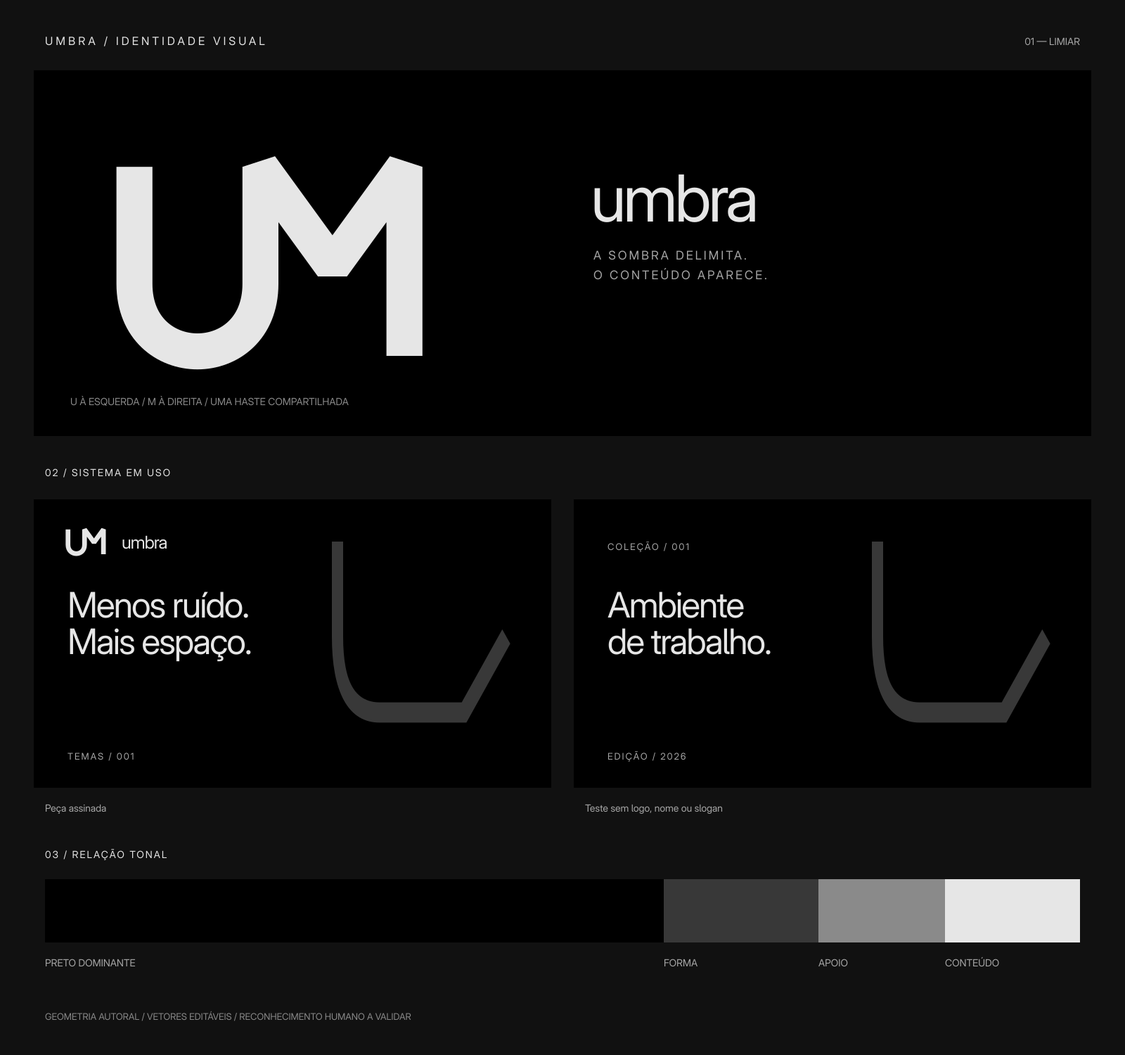
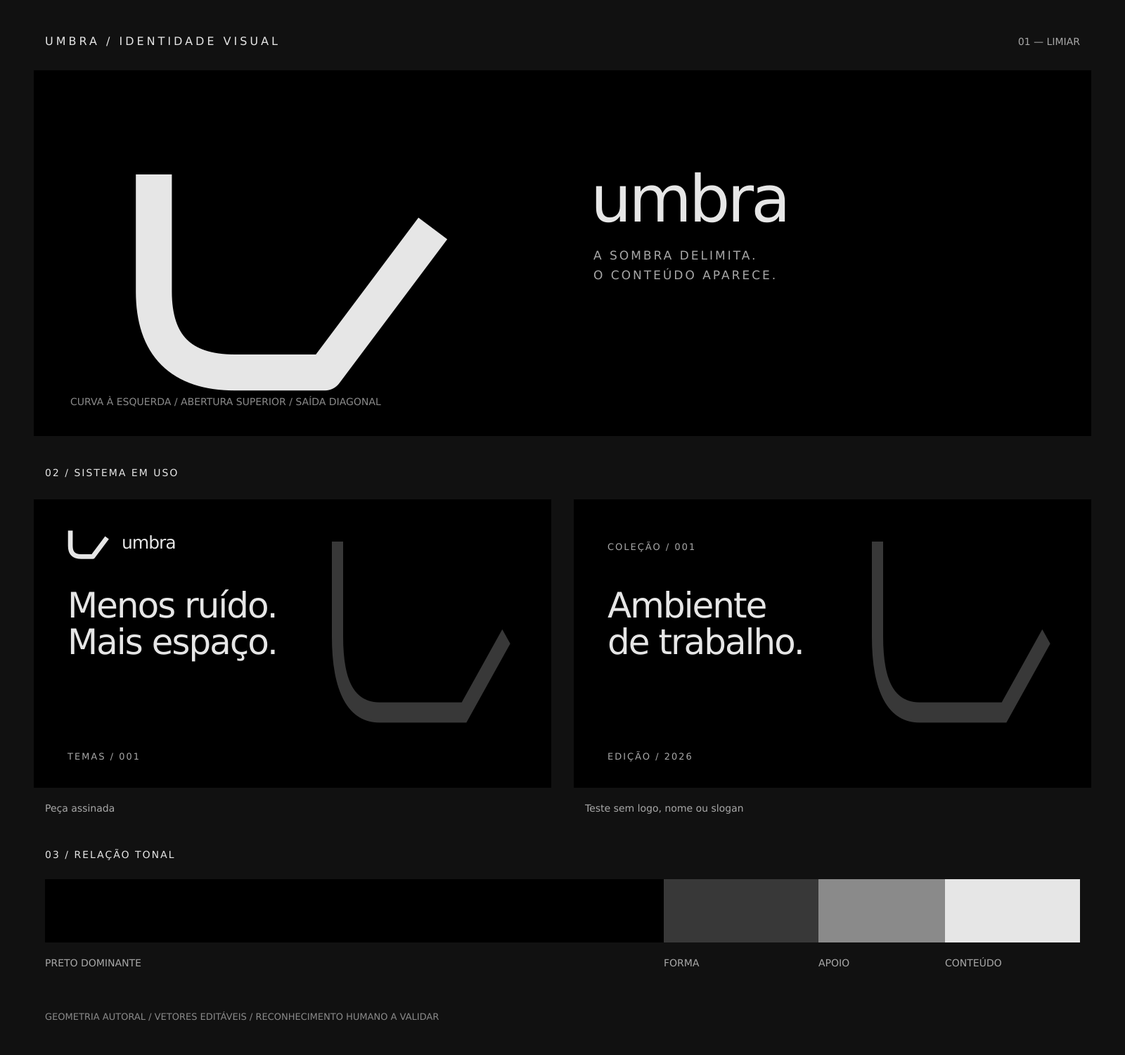
Adopt threshold symbol across Umbra identity

diff --git a/branding/umbra/explorations/limiar/build.ts b/branding/umbra/explorations/limiar/build.ts
@@ -1,0 +1,45 @@
+// Run with bun branding/umbra/explorations/limiar/build.ts
+const dir = import.meta.dir;
+const old = 'M16 16V68C16 108 72 108 72 68V16L104 60L136 16V100';
+const proposed = 'M24 20V72Q24 108 60 108H100L148 44';
+const connected = 'M24 20V72Q24 108 60 108H100L148 44L176 72L204 44';
+const head = (w:number,h:number,title:string) => `<svg xmlns="http://www.w3.org/2000/svg" width="${w}" height="${h}" viewBox="0 0 ${w} ${h}" role="img"><title>${title}</title>`;
+const shape = (variant:number|boolean,color='#C5C7C5') => `<path d="${variant===2?connected:variant?proposed:old}" fill="none" stroke="${color}" stroke-width="16" stroke-linejoin="${variant===2?'bevel':variant?'round':'bevel'}"/>`;
+await Bun.write(`${dir}/limiar-symbol.svg`,head(172,132,'Umbra — proposta U limiar')+shape(true)+'</svg>');
+await Bun.write(`${dir}/limiar-m-symbol.svg`,head(228,132,'Umbra — limiar com M abstrato conectado')+shape(2)+'</svg>');
+const mark=(n:number|boolean,x:number,y:number,w:number,color='#C5C7C5')=>`<g transform="translate(${x} ${y}) scale(${w/(n===2?228:n?172:152)})">${shape(n,color)}</g>`;
+const text=(x:number,y:number,s:string,size=18,color='#858A89')=>`<text x="${x}" y="${y}" fill="${color}" font-family="DejaVu Sans,sans-serif" font-size="${size}">${s}</text>`;
+let s=head(2144,1520,'Umbra — comparação UM atual, U limiar e limiar com M');
+s+='<defs><filter id="blur"><feGaussianBlur stdDeviation="3"/></filter></defs><rect width="2144" height="1520" fill="#050505"/>';
+s+=text(64,62,'umbra / estudo de símbolo',28,'#C5C7C5')+text(64,96,'01 — Comparação para avaliação · formas planas, sem luz ou textura',16);
+s+='<path d="M720 140V1430M1424 140V1430" stroke="#252727"/>';
+for(const n of [0,1,2]){
+ const x=64+n*704;
+ s+=text(x,164,['A / UM ATUAL','B / U LIMIAR','C / LIMIAR + M ABSTRATO'][n],18,'#C5C7C5');
+ s+=text(x,194,['Duas letras em um percurso contínuo.','Curva à esquerda. Abertura. Saída diagonal.','A diagonal continua em um M de vale raso.'][n],16);
+ s+=mark(n,x+132,242,290);
+ s+=text(x,516,'SÍMBOLO / mesma largura óptica aproximada',13);
+ s+=text(x,564,'FAVICON / 16, 24, 32 e 48 px',13);
+ let dx=x; for(const z of [16,24,32,48]){s+=mark(n,dx,590,z)+text(dx,656,String(z),12);dx+=90;}
+ s+=text(x,710,'AVATAR / quadrado e recorte circular',13);
+ s+=`<rect x="${x}" y="734" width="128" height="128" rx="24" fill="#161919"/><circle cx="${x+248}" cy="798" r="64" fill="#161919"/>`;
+ s+=mark(n,x+24,766,80)+mark(n,x+208,766,80);
+ s+=text(x,918,'ASSINATURA / símbolo + nome',13)+mark(n,x,948,68)+text(x+92,994,'umbra',48,'#C5C7C5');
+ s+=text(x,1064,'INVERSÃO / preto sobre Bone',13)+`<rect x="${x}" y="1084" width="560" height="126" rx="4" fill="#C5C7C5"/>`+mark(n,x+228,1103,100,'#050505');
+ s+=text(x,1258,'DESFOQUE / estrutura geral',13)+`<g filter="url(#blur)">${mark(n,x,1284,130)}</g>`;
+ s+=text(x,1436,['Mais literal; a junção concentra detalhes.','Mais aberto; pode parecer um recipiente ou uma rampa.','Mais horizontal; o M também pode parecer um zigue-zague.'][n],15);
+}
+s+=text(64,1490,'Proposta exploratória · identidade vigente preservada · reconhecimento por pessoas ainda não medido',14);
+await Bun.write(`${dir}/comparison.svg`,s+'</svg>');
+let test=head(1440,580,'Umbra — testes de linguagem sem assinatura e troca de nome');
+test+='<rect width="1440" height="580" fill="#050505"/>';
+test+=text(64,64,'02 — A linguagem além do símbolo',28,'#C5C7C5');
+test+=text(64,108,'Sem logo, nome ou slogan',18)+text(768,108,'Troca de nome / controle de distinção',18);
+for(const x of [64,768]){
+ test+=`<rect x="${x}" y="140" width="600" height="320" fill="#101111"/>`;
+ test+=`<path d="M${x+300} 170V300Q${x+300} 386 ${x+370} 386H${x+480}L${x+564} 268" fill="none" stroke="#292D2D" stroke-width="22"/>`;
+}
+test+=text(796,230,'nord',44,'#C5C7C5');
+test+=text(64,506,'O contorno mantém parentesco com o wallpaper.',16)+text(768,506,'A troca ainda é plausível: exclusividade não comprovada.',16);
+test+=text(64,544,'O limiar pode organizar recortes e composições; associação à Umbra exige uso consistente.',16);
+await Bun.write(`${dir}/language-tests.svg`,test+'</svg>');

diff --git a/branding/umbra/REVIEW.md b/branding/umbra/REVIEW.md
@@ -14,13 +14,13 @@ Consulta textual às páginas oficiais em 2026-09-05:
 | [Catppuccin](https://catppuccin.com/) | Posicionamento pastel, esquema comunitário e catálogo de ports | Evitar organizar a identidade em sabores cromáticos |
 | [Dracula](https://draculatheme.com/) | Catálogo de temas, metáforas de castelo e caixão | Tema noturno sozinho não distingue Umbra |
 
-Limite: a consulta confirma posicionamento e conteúdo; não permite atribuir com segurança fontes, animações ou uma auditoria visual completa dessas marcas. Monoespaçadas, preto e metáforas noturnas são convenções apontadas pela skill, não uma descoberta quantitativa desta consulta. A oportunidade autoral é a combinação UM horizontal + limiar curvo/angular + composição de campo escuro. Exclusividade não foi comprovada.
+Limite: a consulta confirma posicionamento e conteúdo; não permite atribuir com segurança fontes, animações ou uma auditoria visual completa dessas marcas. Monoespaçadas, preto e metáforas noturnas são convenções apontadas pela skill, não uma descoberta quantitativa desta consulta. A oportunidade autoral é a combinação do limiar curvo/angular e composição de campo escuro. Exclusividade não foi comprovada.
 
 ## Decisão e refinamento
 
-Na revisão 0.4.1, o feedback do usuário identificou um nó na ligação: o ramal `M72 68V100` prolongava a haste a partir do ponto onde a curva terminava. Esse ramal foi removido de todos os símbolos e aplicações. A curva cúbica chega a (72,68) com tangente vertical e continua pela subida até (72,16), formando um único percurso sem ramificação. Foram mantidos o peso 16 e os encontros chanfrados; a correção está na continuidade da construção. As exportações foram regeneradas e a junção foi reinspecionada em escala ampliada e na prancha de reduções. As notas de potencial abaixo não foram aumentadas por essa correção.
+Na revisão 0.5.0, o feedback do usuário escolheu o limiar aberto como símbolo principal após comparar o UM, o limiar e uma tentativa de M abstrato conectado. A opção conectada foi descartada: em tamanhos pequenos, sua leitura se aproximava de um zigue-zague. O percurso final `M24 20V72Q24 108 60 108H100L148 44` preserva a curva à esquerda, uma base curta e a saída diagonal. O traço é 16, a curva é a única transição arredondada e não há ramificações.
 
-O M acima do U permitia uma ordem vertical MU. A reconstrução coloca o U antes do M no eixo habitual de leitura, com uma única haste compartilhada. O U tem curva aberta em cima; o M mantém duas diagonais e duas hastes. Não há olhos ou cabeça de animal a decifrar. O limiar das aplicações deriva da passagem curva/ângulo, sem reproduzir o monograma inteiro.
+O símbolo não busca representar letras. Ele traduz a passagem curva/ângulo do limiar entre sombra e conteúdo. A coruja, os monogramas e o V sobre U deixaram de orientar o sistema.
 
 ## Matriz de assets
 
@@ -28,8 +28,7 @@ As colunas de reconhecimento e exclusividade são hipóteses internas. Fame e un
 
 | Asset | Potencial de reconhecimento | Potencial de exclusividade | Coerência | Repetibilidade |
 | --- | --- | --- | --- | --- |
-| UM horizontal com haste comum | Médio/alto | Médio: monogramas são frequentes | Alta | Alta |
-| Limiar com curva esquerda e saída diagonal direita | Médio | Médio | Alta | Alta |
+| Limiar aberto com curva esquerda e saída diagonal direita | Médio/alto | Médio: formas abertas são frequentes | Alta | Alta |
 | Título curto / campo vazio / forma à direita | Médio | Baixo isoladamente | Alta | Alta |
 | Caixa baixa na assinatura e metadados espaçados | Baixo isoladamente | Baixo | Média | Alta |
 | Preto e cinzas | Baixo isoladamente | Baixo | Alta | Alta |
@@ -40,11 +39,11 @@ As colunas de reconhecimento e exclusividade são hipóteses internas. Fame e un
 
 | Teste | Resultado da inspeção interna |
 | --- | --- |
-| Ordem das letras | U à esquerda e M à direita visíveis; a haste comum preserva ligação. Leitura humana espontânea ainda pendente |
-| Monocromia / inversão / silhueta | Curva e diagonais preservadas sem dependência de cor |
-| Redução em 16, 24, 32, 64 e 128 px | Em 16 px, curva e junção ficam pouco definidas. Recomendar 32 px ou mais |
-| Desfoque | A oposição entre curva esquerda e ângulos à direita sobrevive; detalhes dos terminais se perdem |
-| Oclusão | O M incompleto deixa de ser legível. Proibir recorte do símbolo |
+| Silhueta | Curva à esquerda, abertura superior e diagonal direita preservadas sem dependência de cor |
+| Monocromia / inversão | Forma legível em Bone sobre Ink e Ink sobre Bone |
+| Redução em 16, 24, 32, 64 e 128 px | Em 16 px, curva e diagonal ficam pouco definidas. Recomendar 32 px ou mais |
+| Desfoque | A oposição entre curva esquerda e diagonal direita sobrevive; detalhes dos terminais se perdem |
+| Oclusão | A abertura e a diagonal deixam de comunicar a silhueta. Proibir recorte do símbolo |
 | Retirada de logo, nome e slogan | Peça direita da prancha mantém limiar, hierarquia e distribuição. Há parentesco visual; isso não comprova identificação de Umbra |
 | Troca por concorrente | `applications/competitor-swap.svg`: a composição continua plausível com Nord. O layout isolado tem exclusividade baixa; manter o limiar e construir associação por repetição |
 | Entre suportes | Prancha editorial, avatar quadrado e wallpaper panorâmico materializados; aplicação real em interface não avaliada nesta entrega |
@@ -56,8 +55,8 @@ Não declarar reconhecimento comprovado nem atribuir respostas a participantes i
 
 | Critério | Nota | Motivo |
 | --- | --- | --- |
-| Distintividade | 6 | Ligação específica entre letras, mas território de monogramas concorrido |
-| Potencial de reconhecimento | 7 | Ordem horizontal e duas anatomias legíveis |
+| Distintividade | 6 | Silhueta específica, mas território de formas abertas concorrido |
+| Potencial de reconhecimento | 7 | Curva e diagonal contrastantes, repetíveis entre suportes |
 | Coerência semântica | 8 | Sombra, limite e revelação conectam forma e aplicação |
 | Força da forma | 7 | Funciona em monocromia e desfoque; frágil sob recorte |
 | Identidade tipográfica | 4 | Comportamento consistente, fonte não exclusiva |
@@ -70,6 +69,6 @@ Não declarar reconhecimento comprovado nem atribuir respostas a participantes i
 
 ## Teste humano a executar
 
-Apresentar o símbolo isolado durante cinco segundos, ocultar e perguntar “Quais letras você viu, em qual ordem?”. Não revelar UM antes. Repetir em 32 px, perguntar sobre dificuldade e registrar literalmente a resposta. Com 5–8 pessoas é possível detectar ambiguidades, não estimar reconhecimento populacional.
+Apresentar o símbolo isolado durante cinco segundos, ocultar e pedir que a pessoa desenhe ou descreva a forma. Não explicar o conceito antes. Repetir em 32 px, perguntar sobre dificuldade e registrar literalmente a resposta. Com 5–8 pessoas é possível detectar ambiguidades, não estimar reconhecimento populacional.
 
-Mostrar uma peça assinada e, após outra tarefa, uma peça sem nome, logo e slogan, isolada do cabeçalho da prancha e misturada a referências. Perguntar o que recorda e a qual marca associa, aceitando “não sei”. Registrar participante anônimo, tamanho, tempo, resposta espontânea e familiaridade prévia. Se MU aparecer repetidamente, separar as hastes antes de insistir na fusão.
+Mostrar uma peça assinada e, após outra tarefa, uma peça sem nome, logo e slogan, isolada do cabeçalho da prancha e misturada a referências. Perguntar o que recorda e a qual marca associa, aceitando “não sei”. Registrar participante anônimo, tamanho, tempo, resposta espontânea e familiaridade prévia. Se “recipiente”, “rampa” ou “marca de verificação” aparecerem repetidamente, refinar proporções antes de aumentar a exposição.

diff --git a/DESIGN.md b/DESIGN.md
@@ -14,8 +14,7 @@ A preferência por preto OLED e neutros permanece. A identidade deve comunicar a
 
 | Hierarquia | Asset | Regra e motivo |
 | --- | --- | --- |
-| Primário | Monograma UM horizontal | U primeiro, M depois, uma haste comum. A sequência permite leitura direta e a conexão dá unidade |
-| Primário | Limiar | Contorno aberto: descida vertical, curva inferior à esquerda, base horizontal, saída diagonal à direita. Reproduz a passagem curva/ângulo das letras |
+| Primário | Limiar aberto | Descida vertical, curva inferior à esquerda, base curta e saída diagonal à direita. A silhueta representa uma passagem, não letras |
 | Secundário | Composição | Título curto à esquerda, limiar à direita e metadados no rodapé. Repetir a distribuição ajuda a criar parentesco |
 | Secundário | Tipografia | Nome em caixa baixa; títulos próximos, rótulos pequenos espaçados |
 | Secundário | Relação tonal | Campo preto dominante, forma em cinza e conteúdo localizado em Bone |
@@ -23,15 +22,15 @@ A preferência por preto OLED e neutros permanece. A identidade deve comunicar a
 
 Sem logo, nome e slogan, devem restar o limiar assimétrico, o ritmo de títulos e a distribuição tonal. A prancha contém essa aplicação. São candidatos a associação pela repetição, não assets de exclusividade comprovada.
 
-## 3. Logo e nome
+## 3. Símbolo e nome
 
 Nome público: **Umbra**; identificadores: `umbra`; assinatura editorial em caixa baixa. Destinos usam “Umbra para Zed” e descritores equivalentes, sem criar submarcas por aplicativo.
 
-O [original](branding/umbra/logo/umbra-symbol.svg) tem viewBox 152 × 116 e traço 16. Um único percurso parte de (16,16), desce até (16,68), percorre a curva do U e chega a (72,68) com tangente vertical. Dali sobe diretamente a (72,16), entra nas diagonais do M por (104,60) e (136,16), e termina em (136,100). A subida em x=72 é simultaneamente a haste direita do U e a entrada do M; não existe prolongamento independente abaixo da junção. A curva tem pequena compensação abaixo da base reta. Terminais retos e encontros chanfrados.
+O [original](branding/umbra/logo/umbra-symbol.svg) tem viewBox 172 × 132 e traço 16. Um único percurso parte de (24,20), desce até (24,72), percorre a curva inferior e chega a (60,108), segue pela base até (100,108) e sobe em diagonal até (148,44). A curva inferior esquerda é a única transição arredondada; a abertura superior e os terminais retos preservam a sensação de passagem.
 
-A ordem é espacial: U à esquerda, M à direita. Não empilhar letras. A coruja e o antigo V sobre U deixam de orientar o sistema. Não usar olhos, orelhas ou máscaras animais.
+O símbolo não representa iniciais. A coruja, os monogramas e o antigo V sobre U deixam de orientar o sistema. Não usar olhos, orelhas, máscaras animais ou letras escondidas.
 
-Largura mínima recomendada: 32 px; abaixo disso a leitura perde definição. Área livre: pelo menos 16 unidades além da caixa do desenho. Avatar usa margem maior, já aplicada no arquivo próprio. Usar Bone sobre preto ou preto sobre claro. Não espelhar, deformar, recortar, separar por cor, aplicar efeitos ou usar contorno adicional. O símbolo é vetor; as pranchas têm textos editáveis.
+Largura mínima recomendada: 32 px; abaixo disso a curva e a diagonal perdem definição. Área livre: pelo menos 16 unidades além da caixa do desenho. Avatar usa margem maior, já aplicada no arquivo próprio. Usar Bone sobre preto ou preto sobre claro. Não espelhar, fechar a abertura, deformar, recortar, aplicar efeitos ou usar contorno adicional. O símbolo é vetor; as pranchas têm textos editáveis.
 
 ## 4. Cores fundamentais
 
@@ -130,7 +129,7 @@ Interfaces usam fonte de sistema; código preserva a escolha do usuário. Não i
 
 ## 7. Forma, composição e imagem
 
-Limiar mestre: percurso `M0 0 V150 Q0 270 120 270 H360 L480 150`, traço 32, sem preenchimento. Invariantes: abertura superior, curva só à esquerda, saída diagonal à direita e terminais retos. Variam extensão da base, altura e escala conforme suporte; manter a curva visível e a diagonal ascendente. Nunca inverter os lados. Uma forma dominante por peça, sem padrões de múltiplos símbolos.
+Limiar mestre: percurso `M24 20 V72 Q24 108 60 108 H100 L148 44`, traço 16, sem preenchimento. Invariantes: abertura superior, curva só à esquerda, base curta, saída diagonal à direita e terminais retos. Variam escala e espessura conforme suporte; manter a curva visível e a diagonal ascendente. Nunca inverter os lados. Uma forma dominante por peça, sem padrões de múltiplos símbolos.
 
 Grade de oito colunas, margens de aproximadamente 6%, título nas primeiras quatro colunas e forma no terço direito. Metadados repetem o eixo do título no rodapé. Em retrato, título vem antes da forma; em interfaces pequenas, omitir a forma se competir com a tarefa. Espaçamento em múltiplos de 4 px. Não moldar campos, textos ou botões no contorno do limiar.
 
@@ -178,9 +177,11 @@ Construção vetorial autoral assistida por Codex. Nenhum bitmap gerado é usado
 
 As provas de monocromia, redução, desfoque, oclusão e retirada da assinatura foram renderizadas e inspecionadas. A troca por Nord ainda é plausível: layout e preto têm baixa exclusividade isolados. O [relatório](branding/umbra/REVIEW.md) registra notas conservadoras e protocolo de cinco segundos, pendente de participantes.
 
-Brief: “Criar para Umbra a partir do limiar entre sombra e conteúdo. Usar UM horizontal com haste comum, limiar aberto com curva esquerda e saída diagonal direita, campo preto dominante, títulos curtos e metadados alinhados. Variar escala e extensão mantendo a direção. Demonstrar uma aplicação sem nome, logo e slogan. Preservar legibilidade e comportamento nativo.”
+Brief: “Criar para Umbra a partir do limiar entre sombra e conteúdo. Usar o limiar aberto com curva esquerda e saída diagonal direita, campo preto dominante, títulos curtos e metadados alinhados. Variar escala e extensão mantendo a direção. Demonstrar uma aplicação sem nome, logo e slogan. Preservar legibilidade e comportamento nativo.”
 
 ## Histórico
+
+- **0.5.0 — 2026-09-17:** limiar aberto promovido de asset secundário a símbolo principal. Monograma UM removido de assets oficiais, web e ícones de integrações.
 
 - **0.4.1 — 2026-09-05:** removido o ramal `M72 68V100`; a curva do U segue diretamente para a entrada do M em um único percurso, sem ramificação. Vetores e PNGs atualizados.
 - **0.6.0 — 2026-09-05:** UI do Zed consolidada em Charcoal; variações de superfície removidas de painéis, abas, menus e controles.

diff --git a/branding/umbra/explorations/limiar/README.md b/branding/umbra/explorations/limiar/README.md
@@ -1,0 +1,36 @@
+# Estudo U limiar
+
+## Decisão
+
+A opção B, **U limiar**, foi escolhida em 2026-09-17 e promovida a símbolo oficial. Os arquivos finais vivem em `../logo/`; este diretório preserva a comparação e a opção C descartada como registro do processo.
+
+## Opção C — limiar com M abstrato
+
+Adicionada à comparação existente como terceira coluna, com os mesmos testes de favicon, avatar, assinatura, inversão e desfoque. [Vetor separado](limiar-m-symbol.svg). A diagonal do limiar sobe ao primeiro pico e continua por um vale raso e uma segunda subida, num único percurso sem ramificações. Curva e base do U foram preservadas; encontros do M usam chanfros para conter pontas.
+
+Inspeção visual do PNG atualizado: composição sem cortes, continuidade preservada e silhueta reconhecível sob desfoque. A proporção mais horizontal reduz a altura e a espessura quando encaixada na mesma largura; em 16 px o M perde definição. O trecho novo pode ser percebido como zigue-zague ou gráfico, portanto a leitura de M é uma intenção, ainda não validada com pessoas. A opção foi descartada e não alterou o logo oficial.
+
+O estudo motivou a promoção do limiar visto no wallpaper Silent Threshold a símbolo principal. A geometria é vetorial, desenhada diretamente; o bitmap do wallpaper não foi usado como logo.
+
+- [Comparação visual](comparison.png) / [SVG editável](comparison.svg): UM e U em monocromia, tamanhos de 16–48 px, avatares, assinatura, inversão e desfoque.
+- [Testes de linguagem](language-tests.png): retirada de assinatura e troca por Nord.
+- [Símbolo proposto](limiar-symbol.svg).
+- Fonte reproduzível: `bun branding/umbra/explorations/limiar/build.ts`. Renderizar os SVGs com rsvg-convert para atualizar os PNGs.
+
+## Direção
+
+Conceito: passagem da sombra para o conteúdo. O símbolo aberto conserva a curva inferior esquerda, base horizontal e subida diagonal direita. A versão compacta aproxima a forma de um U e facilita uso em avatar. Terminais retos; uma curva dominante; sem espelhamento, efeitos ou volume. O contorno aberto e sua repetição em recortes são os dois assets candidatos principais.
+
+Campo Ink dominante, Bone para o símbolo e Ash nos rótulos; cores e comportamento tipográfico herdados de DESIGN.md. Assinatura em caixa baixa, DejaVu Sans como fonte disponível, sem alegar desenho tipográfico exclusivo. Composição espaçosa e assimétrica; imagens escuras e contornos repetem a passagem curva/diagonal. Movimento herdado: revelação única de 280–360 ms pelo contorno, com alternativa estática; não implementado neste estudo.
+
+Posicionamento: ambiente de trabalho atento e silencioso. Evitar efeitos de metal, neon, mascotes e dependência do preto como única assinatura. A auditoria prévia está em ../../REVIEW.md; este estudo não é uma nova pesquisa de mercado ou busca de marcas registradas.
+
+## Avaliação interna
+
+Inspeção dos PNGs renderizados: sem cortes de texto; ambos os símbolos funcionam em uma cor e na inversão. O U mantém uma silhueta aberta sob desfoque. Em 16 px sua espessura é delicada; 24–32 px são mais confortáveis. Uma variante micro poderá ser necessária após escolha da direção. O U pode ser lido como recipiente, rampa ou marca de verificação: leitura espontânea ainda precisa ser testada.
+
+Sem assinatura, o contorno mantém parentesco com o wallpaper, mas não comprova reconhecimento da marca. A troca por Nord continua plausível: preto e tipografia têm baixa exclusividade. Associação depende de exposição consistente. Nenhuma medição humana de reconhecimento ou exclusividade foi realizada.
+
+Notas de hipótese, não dados de usuários (0–10): distintividade 6; potencial de reconhecimento 7; coerência semântica 9; força da forma 8; identidade tipográfica 4; identidade compositiva 6; movimento 3; flexibilidade 8; consistência 8; acessibilidade 7; longevidade 8.
+
+Para avaliar: olhar cada coluna por cinco segundos, ocultar e tentar desenhar o símbolo de memória. Depois observar o favicon em tamanho real e dizer o que a forma sugere antes de ler o nome. A escolha do usuário e testes com outras pessoas permanecem pendentes.

diff --git a/branding/umbra/README.md b/branding/umbra/README.md
@@ -2,9 +2,9 @@
 
 Reconstrução de 2026-09-05, orientada pela skill `memorable-visual-identity`.
 
-O monograma agora se lê horizontalmente: U à esquerda, M à direita, com haste compartilhada. A ordem das letras determina a construção. O conceito de coruja e o empilhamento anterior foram retirados.
+O símbolo é um limiar aberto: desce à esquerda, percorre uma curva inferior, segue por uma base curta e sai em diagonal à direita. Ele representa a passagem entre sombra e conteúdo sem tentar desenhar letras. O conceito de coruja e os monogramas anteriores foram retirados.
 
-Revisão 0.4.1: um único percurso contínuo. A curva do U sobe diretamente para a entrada do M, sem o ramal vertical que engrossava a junção. O traço permanece em 16 unidades, com tangência vertical entre curva e haste.
+Revisão 0.5.0: o limiar, antes asset secundário, passa a ser o símbolo principal. O traço tem 16 unidades; a curva é a única transição arredondada e a saída diagonal permanece aberta. A forma é um percurso único, sem ramificações.
 
 ![Sistema visual](system.svg)
 
@@ -22,9 +22,9 @@ Revisão 0.4.1: um único percurso contínuo. A curva do U sobe diretamente para
 
 Os originais são SVGs editáveis, sem imagens raster embutidas ou recursos remotos. A geometria do símbolo não depende de fontes. As pranchas usam DejaVu Sans, com fallback sans-serif; a fonte não é distribuída. Os PNGs em `exports/` são derivados dos vetores.
 
-Reprodução: largura mínima recomendada de 32 px para o símbolo; margem livre de 16 unidades além do desenho, cuja caixa externa tem aproximadamente 136 × 101 unidades. Para avatares, usar o arquivo dedicado com folga para recorte circular. Preto sobre claro; Bone sobre preto. Não espelhar, empilhar, recortar ou separar as letras por cor.
+Reprodução: largura mínima recomendada de 32 px para o símbolo; margem livre de 16 unidades além do desenho, cuja caixa externa tem aproximadamente 124 × 88 unidades. Para avatares, usar o arquivo dedicado com folga para recorte circular. Preto sobre claro; Bone sobre preto. Não espelhar, fechar a abertura, recortar ou aplicar efeitos.
 
-Construção autoral assistida por Codex. Não há nova licença de distribuição estabelecida por este diretório. A nova direção está implementada; associação espontânea à marca e leitura por pessoas ainda não foram medidas.
+Construção autoral assistida por Codex. Não há nova licença de distribuição estabelecida por este diretório. A nova direção está implementada; associação espontânea à marca ainda não foi medida.
 
 ---
 

diff --git a/README.md b/README.md
@@ -1,5 +1,5 @@
 <div align="center">
-  <img src="branding/umbra/logo/umbra-symbol.svg" alt="Monograma UM da Umbra" width="152" />
+  <img src="branding/umbra/logo/umbra-symbol.svg" alt="Símbolo limiar da Umbra" width="172" />
 
   # Umbra
 
@@ -34,6 +34,7 @@ Começamos com temas para desenvolvimento e terminal, mas a identidade foi pensa
 | [Starship](themes/starship/umbra/README.md) | Umbra | Prompt compacto com contexto Git e runtimes discretos |
 | [Chrome](themes/chrome/umbra/README.md) | Umbra / Umbra Ink | Tema charcoal (ou Ink na omnibox e NTP) com a mesma base do VS Code |
 | [Cursor](themes/cursor/umbra/README.md) | Umbra Cursor | Cursor para Linux: hover de mão e drag-and-drop com indicadores claros |
+| [IDEs JetBrains](themes/jetbrains/umbra/README.md) | Umbra | Tema charcoal para WebStorm, GoLand, IntelliJ IDEA e outras IDEs da plataforma |
 
 Cada tema possui tutorial individual de instalação, changelog e arquivo de configuração próprio.
 
@@ -48,7 +49,7 @@ ou aplicações fora do escopo da tarefa.
 - **Charcoal primeiro:** superfícies escuras, consistentes e confortáveis para uso prolongado.
 - **Neutros como base:** branco, cinza e preto formam o ambiente.
 - **Cor com função:** os acentos comunicam sintaxe, estado, diagnóstico ou ação.
-- **Memória visual:** o monograma UM e a linguagem de formas acompanham todos os produtos.
+- **Memória visual:** o limiar e sua linguagem de formas acompanham todos os produtos.
 - **Escala controlada:** cada integração preserva os mesmos tokens, relações e intenções.
 
 ## ▣ Wallpapers
@@ -82,6 +83,7 @@ themes/
 ├── chrome/umbra/      # tema Umbra para o Chrome
 ├── chrome/umbra-ink/  # variante Ink para o Chrome
 ├── cursor/umbra/      # tema de cursor XCursor para Linux
+├── jetbrains/umbra/   # plugin de tema para IDEs JetBrains
 └── desktop/         # ambientes gráficos futuros
 wallpapers/
 ├── static/          # wallpapers estáticos futuros

diff --git a/web/README.md b/web/README.md
@@ -25,7 +25,7 @@ Editor e terminal usam capturas reais mantidas junto dos temas (`themes/vscode/u
 
 Cursor circular com `mix-blend-mode: difference` para inverter o que está atrás, sem rastro. Sobre botões, assume as dimensões do controle; sobre links, vira sublinhado na linha do texto. Leituras de DOM fora do `pointermove` (1x por frame). Substitui o cursor nativo apenas com mouse, hover e movimento permitido; toque e movimento reduzido preservam o nativo.
 
-Favicon em `app/icon.svg` (monograma UM sobre preto) + apple-touch-icon em `public/umbra-avatar-512.png`. SEO em `app/layout.tsx`: título e descrição diretos, keywords, theme-color, robots, Open Graph, Twitter card e JSON-LD. Sem `og:image` absoluta nem canonical: dependem da URL de publicação, ainda indefinida. Hero com fundo `SlicedWaves` (React Bits + `ogl`) em tons da marca, opacidade 0.35, com mouse e grão; some junto com o título no scroll e não monta com movimento reduzido. Sem travessões nos textos da página.
+Favicon em `app/icon.svg` (limiar sobre preto) + apple-touch-icon em `public/umbra-avatar-512.png`. SEO em `app/layout.tsx`: título e descrição diretos, keywords, theme-color, robots, Open Graph, Twitter card e JSON-LD. Sem `og:image` absoluta nem canonical: dependem da URL de publicação, ainda indefinida. Hero com fundo `SlicedWaves` (React Bits + `ogl`) em tons da marca, opacidade 0.35, com mouse e grão; some junto com o título no scroll e não monta com movimento reduzido. Sem travessões nos textos da página.
 
 Mobile mantém o percurso por scroll. Movimento reduzido apresenta o conteúdo sem animação. A limpeza de GSAP, ticker e Lenis ocorre ao desmontar o componente ou mudar a preferência de movimento.
 

diff --git a/themes/chrome/umbra/README.md b/themes/chrome/umbra/README.md
@@ -47,7 +47,7 @@ Em `chrome://extensions`, clique em **Remover** no cartão Umbra. Isso volta ao 
 
 O `umbra-0.1.0.zip` ao lado do README contém só `manifest.json` e a
 imagem da NTP, pronto para upload. O ícone `store/icon-128.png` (gerado de
-`store/icon.svg`, monograma UM em Bone sobre Charcoal) vai separado, nos
+`store/icon.svg`, limiar em Bone sobre Charcoal) vai separado, nos
 campos da ficha da loja. Para regenerar o zip após mudar o tema:
 
 ```sh

diff --git a/branding/LLMS.md b/branding/LLMS.md
@@ -2,4 +2,4 @@
 
 Leia `../DESIGN.md` apenas quando a mudança afetar identidade, forma, paleta
 ou diretrizes de marca. Use os SVGs de `branding/umbra/` como fontes; exports
-raster são derivados. Preserve o monograma e o limiar conforme DESIGN.md.
+raster são derivados. Preserve o limiar conforme DESIGN.md.

diff --git a/branding/umbra/LLMS.md b/branding/umbra/LLMS.md
@@ -2,4 +2,4 @@
 
 Leia `../../DESIGN.md` antes de alterar símbolo, limiar, cores ou composição.
 SVGs são originais; exports raster são derivados. Preserve proporções, área
-livre e regra de não espelhar o monograma.
+livre e regra de não espelhar o limiar.
